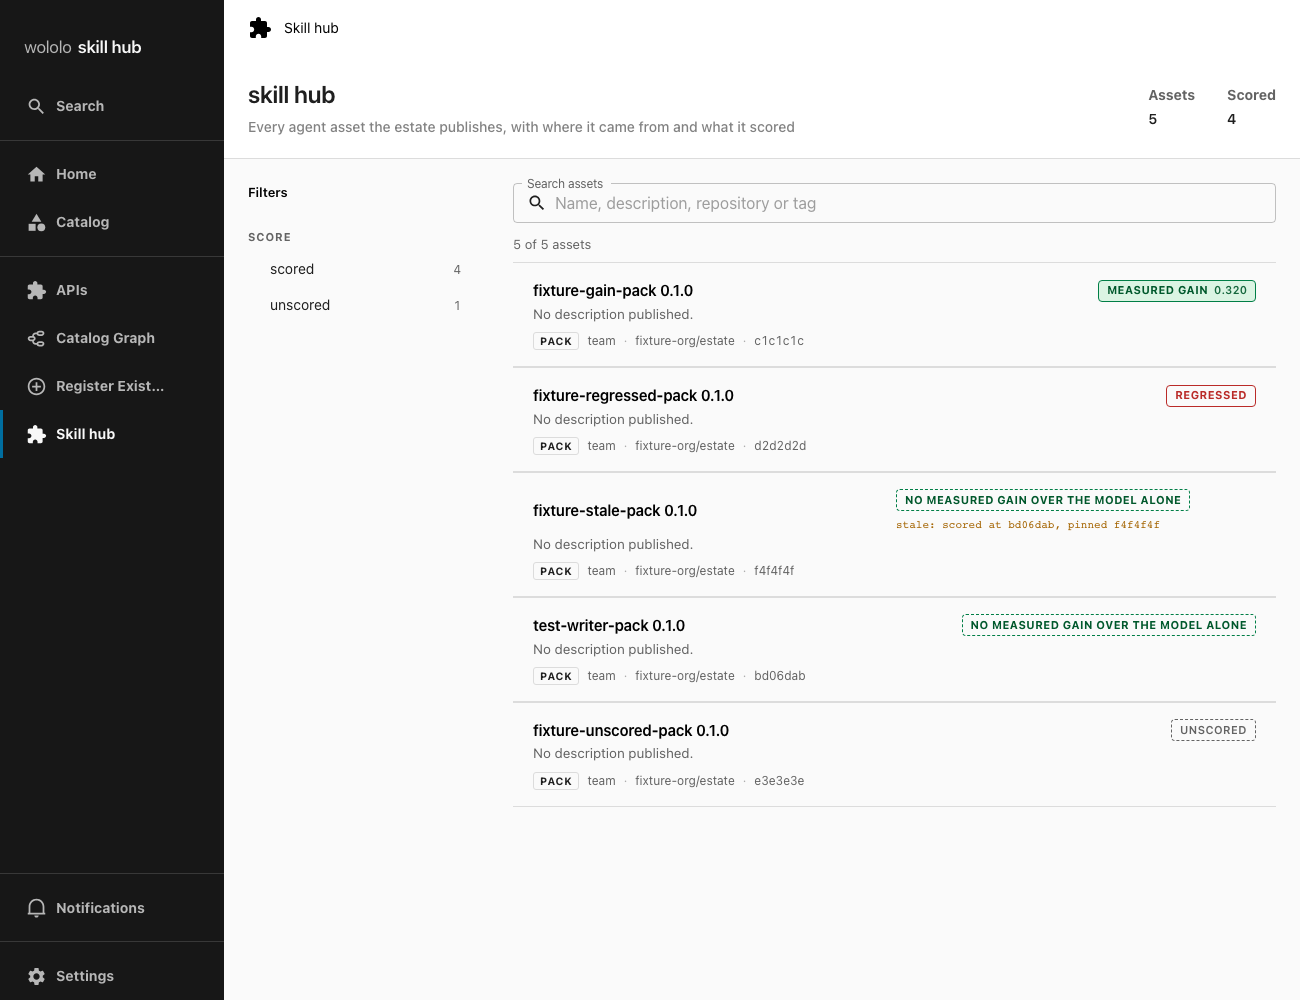
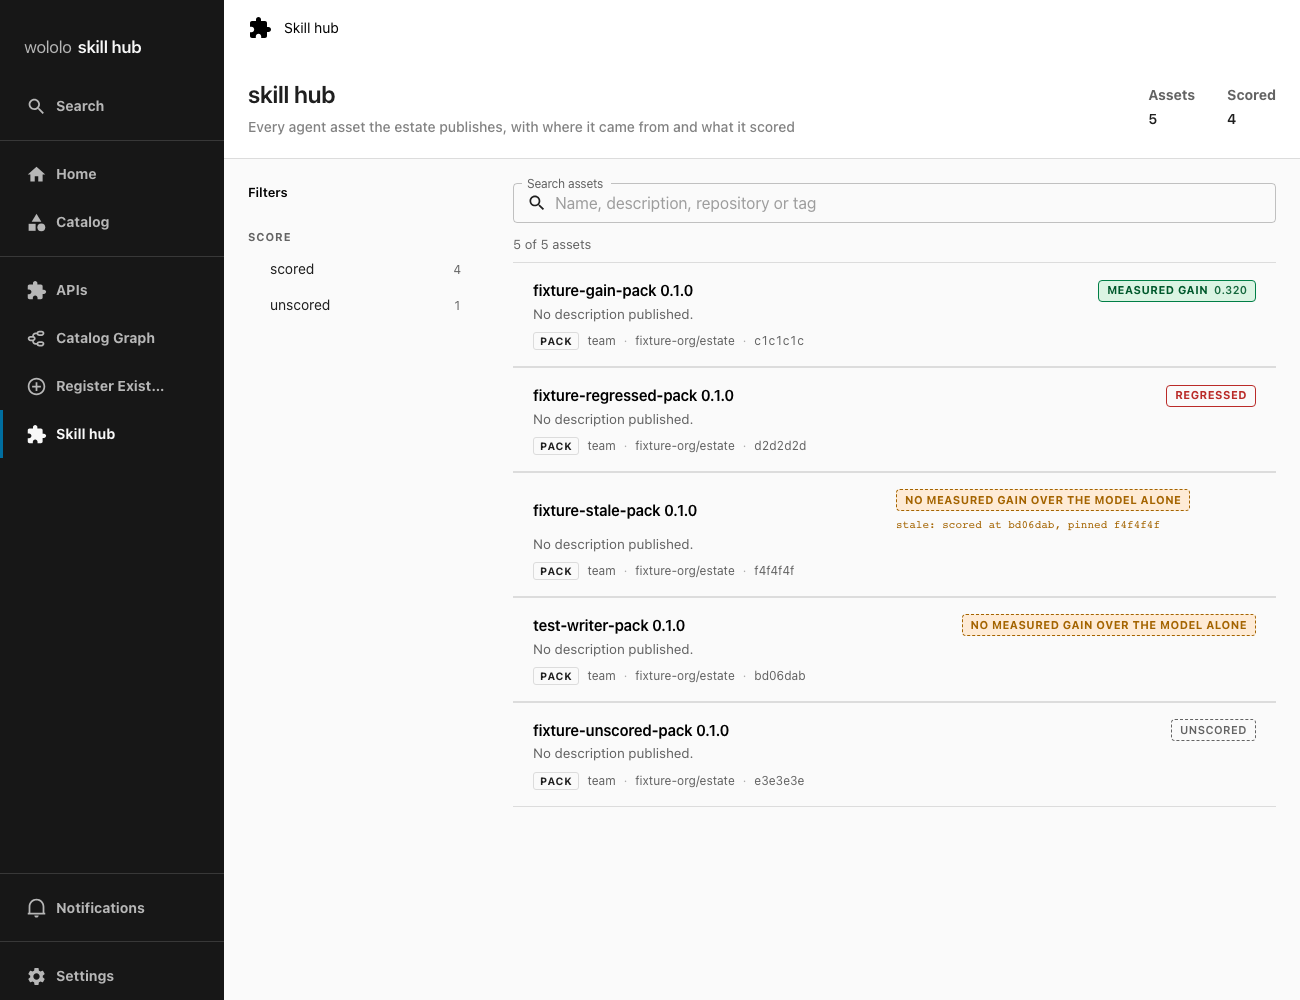
fix: style no measured gain amber, not green
Green reads as a positive result and this state is explicitly not one.
Amber and dashed sets it apart from measured gain, regressed and
unscored. Refreshes the three screenshots that show it.

Changed region(s): [[0.6769, 0.465, 0.9231, 0.527], [0.7385, 0.589, 0.9846, 0.651]]

diff --git a/plugins/skill-hub/src/components/ScoreBadge.tsx b/plugins/skill-hub/src/components/ScoreBadge.tsx
@@ -64,13 +64,13 @@ const useStyles = makeStyles(theme => ({
     borderStyle: 'dashed',
     fontWeight: 600,
   },
-  // Passed, but nothing shows it beats the model alone. Filled like a pass
-  // would be, so it cannot be mistaken for a failure, but dashed like
-  // unscored, so it cannot be mistaken for a demonstrated gain.
+  // Passed, but nothing shows it beats the model alone. Amber and dashed: not
+  // the green of a demonstrated gain, not the red of a failure, and not the
+  // grey of unscored.
   nogain: {
-    backgroundColor: 'transparent',
-    color: theme.palette.infoText,
-    borderColor: theme.palette.status.ok,
+    backgroundColor: theme.palette.warningBackground,
+    color: theme.palette.warningText,
+    borderColor: theme.palette.status.warning,
     borderStyle: 'dashed',
   },
   pair: {

diff --git a/plugins/skill-hub/src/components/scoreStates.test.tsx b/plugins/skill-hub/src/components/scoreStates.test.tsx
@@ -59,6 +59,8 @@ const wrap = (node: ReactNode) =>
         theme={createTheme({
           palette: {
             highlight: '#eef',
+            warningBackground: '#fed',
+            warningText: '#630',
             infoText: '#223',
             textSubtle: '#666',
             status: { ok: '#2a2', error: '#c22', warning: '#a60' },
